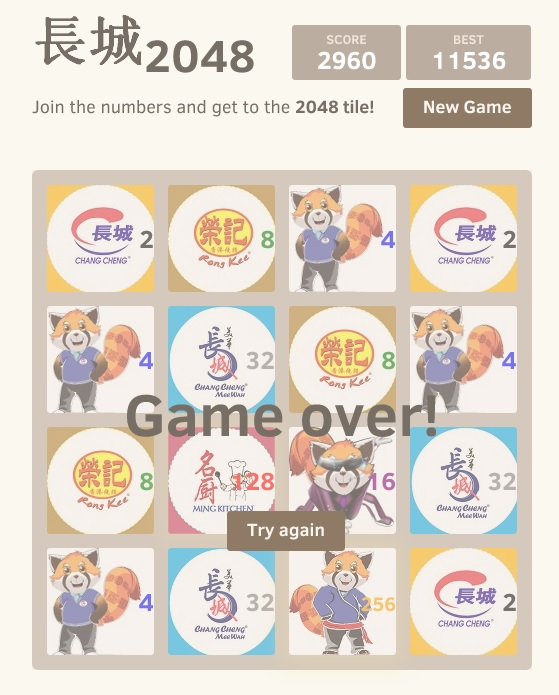
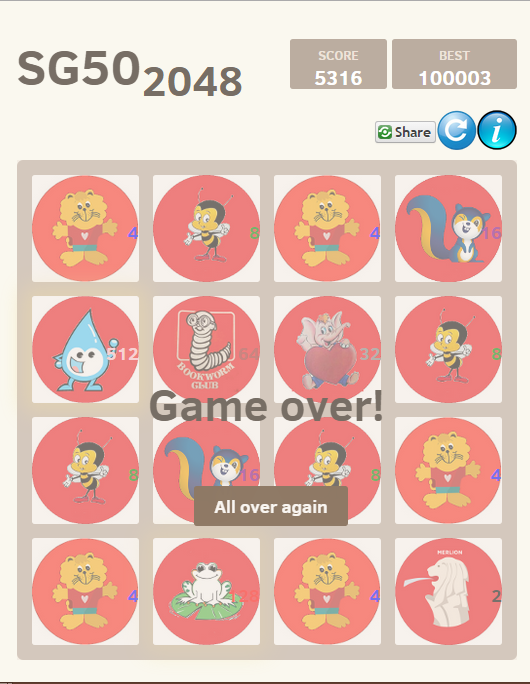
Release 2.1

diff --git a/js/about.js b/js/about.js
@@ -3,7 +3,7 @@ var sequence = [
 
     {
         content: 'Enhanced by<a href="http://www.facebook.com/johnlimlc" target="_blank">John Lim</a>'+
-        '<br>Specially for <a href="http://changcheng.com.sg" target="_blank">長城集团 Chang Cheng Group</a><br>'+
+        '<br>Specially for <a href="http://www.singapore50.sg" target="_blank">SG50</a><br>'+
         '<br><small>Inspired by <a href="http://gabrielecirulli.com" target="_blank">2048 by Gabriele Cirulli</a>'+
         '<br>& based on <a href="https://itunes.apple.com/us/app/1024!/id823499224" target="_blank">1024 by Veewo Studio</a>'+
         '<br>& similar to <a href="http://asherv.com/threes/" target="_blank">Threes by Asher Vollmer</a></small>',
@@ -52,7 +52,7 @@ var sequence = [
 
     {
         container: '#instructions',
-        content: 'When two tiles with the same number touch',
+        content: 'When two tiles with the same picture touch',
         css: { left: '0px', top: '90px', opacity: 0 },
         animate: { opacity: 1 },
         duration: 1200,
@@ -70,7 +70,7 @@ var sequence = [
 
     {
         container: '#instructions',
-        content: 'Join the numbers and get to the <big>2048</big> tile!',
+        content: 'Join the pictures and get to the <big>SG50</big> tile!',
         css: { left: '0px', top: '156px', opacity: 0 },
         animate: { opacity: 1 },
         duration: 1200,
@@ -111,7 +111,7 @@ var sequence = [
 
     {
         container: '#achievements',
-        content: 'Once you have achieved the magic number <big>2048</big>',
+        content: 'Once you have achieved the magic picture <big>SG50</big>',
         css: { left: '-150px', top: '22px', color: '#f5510a' },
         animate: { left: 0 },
         duration: 900,
@@ -129,7 +129,7 @@ var sequence = [
 
     {
         container: '#achievements',
-        content: 'And post a message with your contact on our',
+        content: 'And post a message with your picture on our',
         css: { left: '-150px', top: '90px', color: '#0050ff' },
         animate: { left: 0 },
         duration: 900,
@@ -138,7 +138,7 @@ var sequence = [
 
     {
         container: '#achievements',
-        content: '<a href="http://www.facebook.com/changcheng.sg" target="_blank">facebook</a>',
+        content: '<a href="http://www.facebook.com/sg2015" target="_blank">facebook</a>',
         css: { left: '-150px', top: '110px', color: '#0050ff' },
         animate: { left: 0 },
         duration: 900,
@@ -147,7 +147,7 @@ var sequence = [
 
     {
         container: '#achievements',
-        content: 'And we will send you a mystery gift!',
+        content: 'And share your achievement with fellow Singaporeans!',
         css: { left: '180px', top: '154px', color: '#f00f0f' },
         animate: { left: 0 },
         duration: 900,

diff --git a/index.html b/index.html
@@ -1,8 +1,8 @@
-<!DOCTYPE html>
+<!DOCTYPE html>
 <html>
 <head>
   <meta charset="utf-8">
-  <title>長城2048</title>
+  <title>SG50-2048</title>
   <link href="style/main.css" rel="stylesheet" type="text/css">
   <link href="style/likes.css" rel="stylesheet" type="text/css">
   <link href="style/about.css" rel="stylesheet" type="text/css">
@@ -52,7 +52,7 @@
 
   <div class="container">
     <div class="heading">
-      <h1 class="title">長城<sub>2048</sub></h1>
+      <h1 class="title">SG50<sub>2048</sub></h1>
       <div class="scores-container">
         <div class="score-container">0</div>
         <div class="best-container">0</div>
@@ -61,12 +61,12 @@
 
     <div class="above-game">
       <a class="like-button">
-        <div class="fb-like" data-href="http://johnlimlc.github.io/CC-2048/" data-layout="button_count" data-action="like" data-show-faces="true" data-share="false"></div>
+        <div class="fb-like" data-href="http://johnlimlc.github.io/SG50-2048/" data-layout="button_count" data-action="like" data-show-faces="true" data-share="false"></div>
       </a>
       <a class="info-button"></a>
       <a class="restart-button"></a>
       <a class="share-button">
-        <div class="social-likes social-likes_single" data-url="http://johnlimlc.github.io/CC-2048/" data-title="長城2048" data-single-title="Share">
+        <div class="social-likes social-likes_single" data-url="http://johnlimlc.github.io/SG50-2048/" data-title="SG50-2048" data-single-title="Share">
           <div class="facebook" title="Share link on Facebook">Facebook</div>
           <div class="twitter" title="Share link on Twitter">Twitter</div>
           <div class="plusone" title="Share link on Google+">Google+</div>
